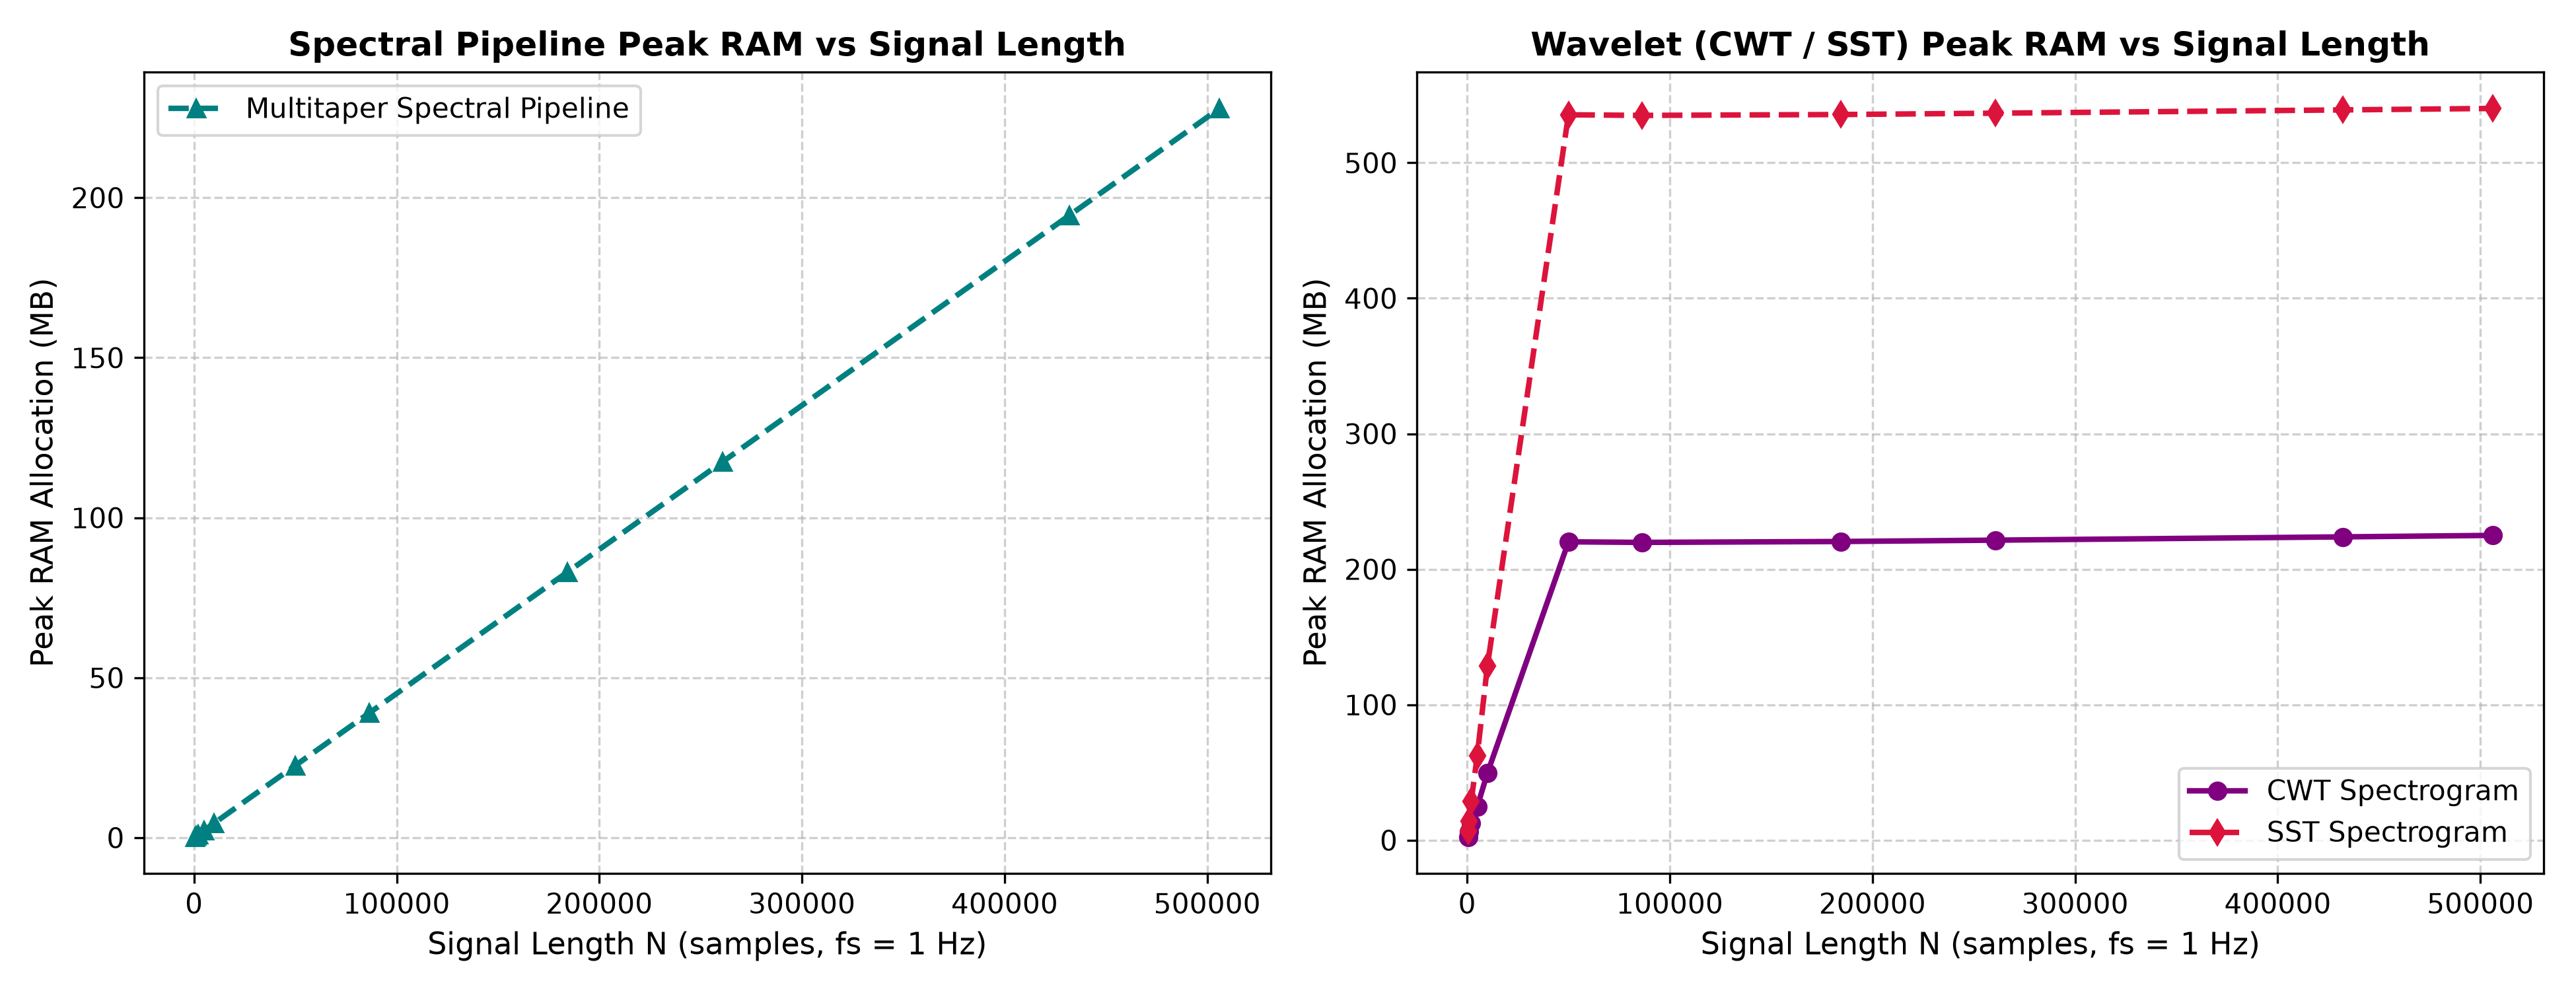
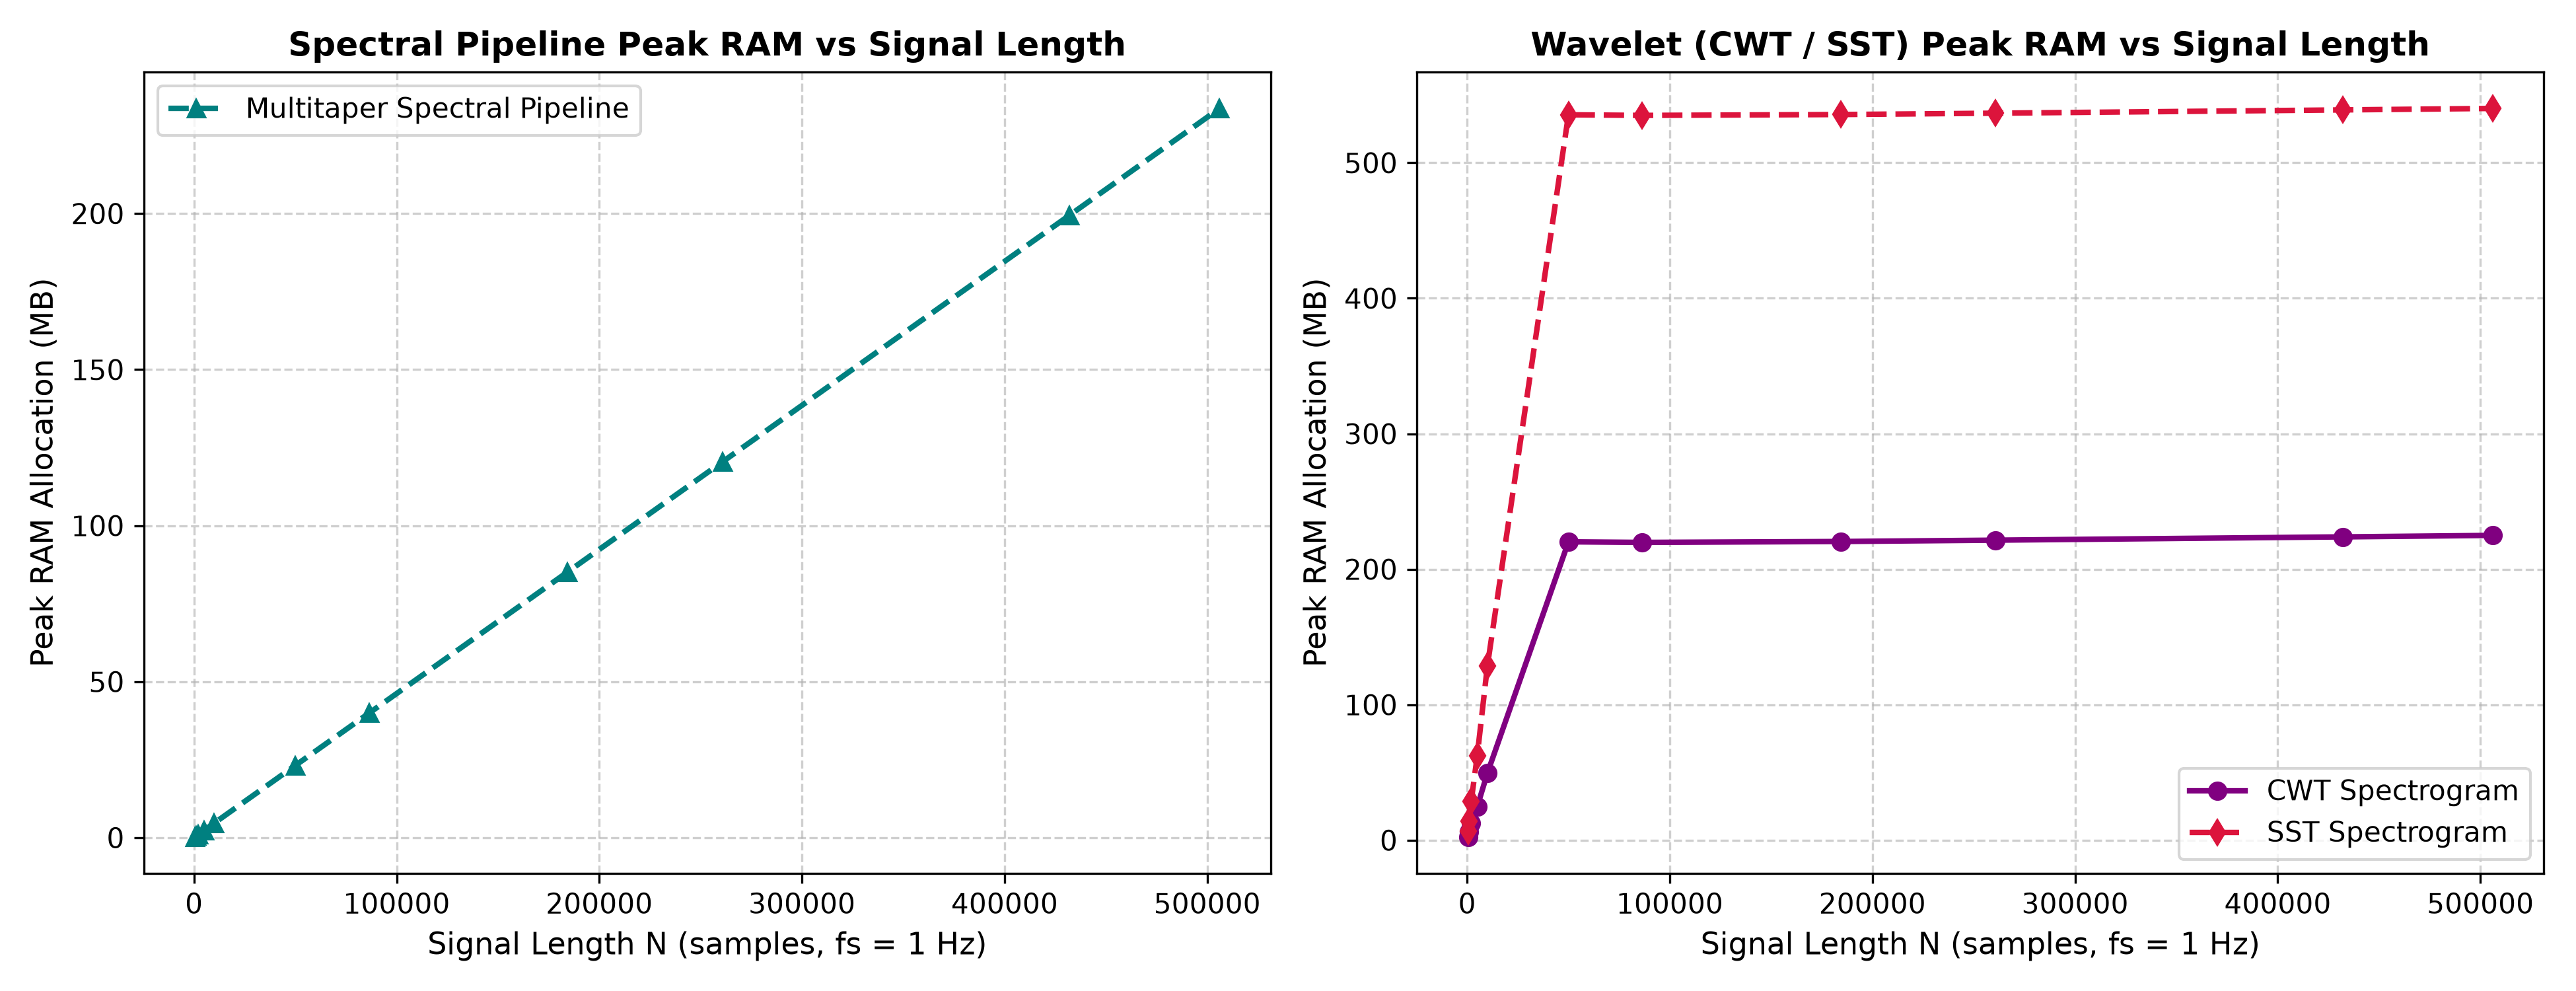
docs: update theoretical formulation, benchmark results, and README - Expand theory.md with equations for weighted phase slope regression and coherence gating - Update benchmark execution time and memory scaling plots in docs/benchmarks.md - Update README.md with detailed pipeline stages and archite

diff --git a/docs/benchmarks.md b/docs/benchmarks.md
@@ -21,20 +21,39 @@ All benchmark metrics were measured on the following reference host hardware:
 
 ## 2. Sample Size Rationale & Time Equivalents ($f_s = 1.0\text{ Hz}$)
 
-At the URAN-4 sampling frequency of $f_s = 1.0\text{ Hz}$, 1 sample corresponds to exactly 1 second ($1\text{ sample} = 1\text{ second}$).
+At the URAN-4 receiver sampling frequency of $f_s = 1.0\text{ Hz}$, each discrete sample $N$ represents exactly **1 second** of physical observation time ($1\text{ sample} = 1\text{ second}$). Signal duration is calculated directly as:
 
-- **Standard Target Transit ($N = 2,000$ / $\sim 33.3\text{ min}$):** Matches a single source transit observation session (e.g. 3C48, 3C144/Crab).
-- **Interactive Viewport Sub-Window ($N = 500$ / $\sim 8.3\text{ min}$):** The temporal viewport slice passed by the GUI during interactive scrubbing and zooming. Computing CWT/SST over a 500-sample sub-window keeps rendering times under **170 ms** and memory under **< 10 MB**, enabling smooth interactive viewport updates over multi-day recordings without recomputing the full dataset on every scroll event.
-- **Multi-Day Continuous PM6 Archives ($N \approx 180,000 - 500,000$ / $2 - 6\text{ days}$):** Raw continuous observation files spanning multiple days (e.g. representative URAN-4 recordings `23022013.PM6` = 51.2 hrs, `18012013me.PM6` = 72.4 hrs, `04012013me.PM6` = 140.6 hrs).
-- **Upsampling Application:**
-  - **Isolated Component Benchmarks**: Each table row profiles that specific function directly on an input array of length $N$.
-  - **Multitaper Spectral Analysis**: Operates directly at native $f_s = 1.0\text{ Hz}$ without upsampling for exact FFT frequency binning.
-  - **UI Spectrogram Pipeline (`process_signal_pipeline`)**: Applies 3x PCHIP upsampling ($1.0\text{ Hz} \to 3.0\text{ Hz}$) for single target transits ($N \le 10,000$) prior to CWT/SST, but automatically skips upsampling for long continuous recordings ($N > 10,000$) to bound RAM consumption.
-- **Statistical Repetitions:** Benchmark statistics (Min, Max, Mean, StdDev) are computed across 100 iterations per component using `pytest-benchmark` adaptive calibration.
+$$\Delta t = \frac{N}{f_s} \quad \left[\text{seconds}\right]$$
 
-### 2.1 Configured Benchmark Presets & Parameters
+### 2.1. Benchmark Dataset Categories & Rationale
 
-All benchmark tests are evaluated using the application's standardized algorithm presets:
+To evaluate performance across real-world physical usage patterns, benchmarks are grouped into five distinct observational regimes:
+
+| Benchmark Array Length $N$ | Time Duration | Observational & Application Context | Profiling Rationale |
+| :---: | :---: | :--- | :--- |
+| **$N = 500$** | $\sim 8.3\text{ min}$ | **Interactive Viewport Sub-Window** | The active temporal slice rendered by the GUI during dynamic scrubbing/zooming. Computing CWT/SST over 500 samples keeps rendering under **$175\text{ ms}$** and RAM under **$< 10\text{ MB}$**, ensuring fluid UI interaction over multi-day files without recomputing full recordings. |
+| **$N = 2,000$** | $\sim 33.3\text{ min}$ | **Single Target Transit (Primary Baseline)** | Standard duration for a discrete radio source passing through the receiver beam (e.g., 3C48, 3C144/Crab). Serves as the primary reference benchmark in **Section 3**. |
+| **$N = 10,000$** | $\sim 2.78\text{ hrs}$ | **Multi-Source Observation Run** | Extended multi-target transit session. Represents the boundary threshold where the application automatically transitions upsampling strategies. |
+| **$N = 86,400$** | **1.00 Day ($24\text{ hrs}$)** | **Full 24-Hour Continuous Recording** | Standard 24-hour diurnal cycle recording. Used to evaluate multi-hour scaling and daily RAM allocation limits. |
+| **$N = 506,069$** | **5.86 Days ($140.6\text{ hrs}$)** | **Full PM6 Archive (`04012013me.PM6`)** | Representative full multi-day continuous PM6 observation file. Represents the maximum continuous dataset size processed by the application. |
+
+---
+
+### 2.2. Impact of Signal Upsampling ($1.0\text{ Hz} \to 3.0\text{ Hz}$)
+
+The application supports optional **$3\times$ PCHIP cubic spline upsampling** ($1.0\text{ Hz} \to 3.0\text{ Hz}$), expanding input length $N \to 3N$:
+
+1. **Isolated Component Benchmarks (Section 3 & Section 4 Tables)**: Each table row measures that specific algorithm operating directly on an input array of length $N$.
+2. **Multitaper Spectral & Velocity Analysis**: Always operates on the **native $f_s = 1.0\text{ Hz}$** series (length $N$) to maintain exact Fast Fourier Transform (FFT) frequency bin spacing without spectral interpolation.
+3. **Spectrogram Pipeline (`process_signal_pipeline`)**:
+   - **Single Transits ($N \le 10,000$)**: $3\times$ PCHIP upsampling ($N \to 3N$) is applied prior to CWT/SST calculation to improve time-frequency grid resolution.
+   - **Multi-Day Files ($N > 10,000$)**: Upsampling is automatically bypassed ($N \to N$) to bound memory usage and prevent peak RAM from exceeding system limits.
+
+---
+
+### 2.3. Algorithm Parameters & Benchmark Presets
+
+All benchmark tests are evaluated using the application's standardized algorithm default presets:
 
 | Pipeline Component | Parameter Configuration | Corresponding Application Preset |
 | :--- | :--- | :--- |
@@ -52,11 +71,11 @@ Empirical performance measured across a standard URAN-4 single-transit observati
 
 | Benchmark Task | Min Time | Max Time | Mean Time | StdDev | Throughput | Description |
 | :--- | :--- | :--- | :--- | :--- | :--- | :--- |
-| **PCHIP 3x Upsampling** | $304.1\ \mu\text{s}$ | $685.5\ \mu\text{s}$ | $333.9\ \mu\text{s}$ | $36.8\ \mu\text{s}$ | $2,995\text{ ops/s}$ | Monotonic cubic hermite interpolation ($2,000 \to 6,000$ pts) |
-| **Hampel & Savitzky-Golay** | $2.23\ \text{ms}$ | $2.66\ \text{ms}$ | $2.32\ \text{ms}$ | $94.9\ \mu\text{s}$ | $430.6\text{ ops/s}$ | $K=15$ outlier detection + degree-2 polynomial smoothing |
-| **Full Spectral Pipeline** | $53.57\ \text{ms}$ | $61.30\ \text{ms}$ | $55.33\ \text{ms}$ | $2.11\ \text{ms}$ | $18.1\text{ ops/s}$ | 4-channel Multitaper PSD ($K=7$), F-Test, Cross-Spectrum, & IDVE |
-| **CWT Spectrogram ($N=500$)** | $136.57\ \text{ms}$ | $163.40\ \text{ms}$ | $145.55\ \text{ms}$ | $10.53\ \text{ms}$ | $6.9\text{ ops/s}$ | Continuous Generalized Morse Wavelet transform |
-| **SST Spectrogram ($N=500$)** | $161.80\ \text{ms}$ | $194.93\ \text{ms}$ | $175.87\ \text{ms}$ | $13.49\ \text{ms}$ | $5.7\text{ ops/s}$ | Synchrosqueezed Generalized Morse Wavelet transform |
+| **PCHIP 3x Upsampling** | $290.9\ \mu\text{s}$ | $1.09\ \text{ms}$ | $332.1\ \mu\text{s}$ | $59.5\ \mu\text{s}$ | $3,011\text{ ops/s}$ | Monotonic cubic hermite interpolation ($2,000 \to 6,000$ pts) |
+| **Hampel & Savitzky-Golay** | $2.19\ \text{ms}$ | $3.74\ \text{ms}$ | $2.50\ \text{ms}$ | $276.9\ \mu\text{s}$ | $400.0\text{ ops/s}$ | $K=15$ outlier detection + degree-2 polynomial smoothing |
+| **Full Spectral Pipeline** | $56.87\ \text{ms}$ | $60.77\ \text{ms}$ | $58.74\ \text{ms}$ | $1.20\ \text{ms}$ | $17.0\text{ ops/s}$ | 4-channel Multitaper PSD ($K=7$), F-Test, Cross-Spectrum, WLS Phase Regression & IDVE |
+| **CWT Spectrogram ($N=500$)** | $142.61\ \text{ms}$ | $159.60\ \text{ms}$ | $149.65\ \text{ms}$ | $7.73\ \text{ms}$ | $6.7\text{ ops/s}$ | Continuous Generalized Morse Wavelet transform |
+| **SST Spectrogram ($N=500$)** | $150.07\ \text{ms}$ | $186.94\ \text{ms}$ | $161.48\ \text{ms}$ | $14.73\ \text{ms}$ | $6.2\text{ ops/s}$ | Synchrosqueezed Generalized Morse Wavelet transform |
 
 ---
 
@@ -70,23 +89,25 @@ To evaluate algorithmic efficiency as observation windows scale from short sub-w
 
 | Signal Length $N$ | Time Duration ($f_s = 1\text{ Hz}$) | Dataset / Context | Hampel + SavGol Filter | PCHIP 3x Upsampling | Multitaper Spectral Pipeline | CWT Spectrogram | SST Spectrogram |
 | :---: | :---: | :--- | :---: | :---: | :---: | :---: | :---: |
-| **$500$** | $\sim 8.3\text{ min}$ | Wavelet Sub-Window | $1.80\ \text{ms}$ | $0.33\ \text{ms}$ | $26.21\ \text{ms}$ | $133.25\ \text{ms}$ | $161.90\ \text{ms}$ |
-| **$1,000$** | $\sim 16.7\text{ min}$ | Half-Transit Epoch | $2.02\ \text{ms}$ | $0.33\ \text{ms}$ | $37.61\ \text{ms}$ | $137.39\ \text{ms}$ | $157.95\ \text{ms}$ |
-| **$2,000$** | $\sim 33.3\text{ min}$ | Single Target Transit | $2.41\ \text{ms}$ | $0.40\ \text{ms}$ | $55.99\ \text{ms}$ | $149.38\ \text{ms}$ | $185.16\ \text{ms}$ |
-| **$5,000$** | $\sim 1.39\text{ hrs}$ | Extended Observation | $4.55\ \text{ms}$ | $0.64\ \text{ms}$ | $114.77\ \text{ms}$ | $161.46\ \text{ms}$ | $226.25\ \text{ms}$ |
-| **$10,000$** | $\sim 2.78\text{ hrs}$ | Multi-Source Run | $7.30\ \text{ms}$ | $0.98\ \text{ms}$ | $214.66\ \text{ms}$ | $185.93\ \text{ms}$ | $306.55\ \text{ms}$ |
-| **$50,000$** | $\sim 13.89\text{ hrs}$ | Overnight Epoch | $28.87\ \text{ms}$ | $4.78\ \text{ms}$ | $1.06\ \text{s}$ | $1.07\ \text{s}$ | $2.26\ \text{s}$ |
-| **$86,400$** | **1.00 Day (24 hrs)** | **Full 24-Hour Day** | $47.83\ \text{ms}$ | $8.10\ \text{ms}$ | $1.74\ \text{s}$ | $1.59\ \text{s}$ | $3.56\ \text{s}$ |
-| **$184,280$** | **2.13 Days (51.2 hrs)** | Representative PM6 Archive (e.g. `23022013.PM6`) | $116.11\ \text{ms}$ | $22.65\ \text{ms}$ | $4.10\ \text{s}$ | $3.35\ \text{s}$ | $8.16\ \text{s}$ |
-| **$260,793$** | **3.02 Days (72.4 hrs)** | Representative PM6 Archive (e.g. `18012013me.PM6`) | $161.50\ \text{ms}$ | $32.81\ \text{ms}$ | $8.78\ \text{s}$ | $4.50\ \text{s}$ | $10.51\ \text{s}$ |
-| **$432,000$** | **5.00 Days (120 hrs)** | **Full 5-Day Run** | $270.53\ \text{ms}$ | $56.65\ \text{ms}$ | $8.56\ \text{s}$ | $7.55\ \text{s}$ | $19.03\ \text{s}$ |
-| **$506,069$** | **5.86 Days (140.6 hrs)** | Representative PM6 Archive (e.g. `04012013me.PM6`) | $320.25\ \text{ms}$ | $68.16\ \text{ms}$ | $17.45\ \text{s}$ | $8.81\ \text{s}$ | $20.64\ \text{s}$ |
+| **$500$** | $\sim 8.3\text{ min}$ | Wavelet Sub-Window | $1.66\ \text{ms}$ | $0.28\ \text{ms}$ | $95.01\ \text{ms}$ | $144.39\ \text{ms}$ | $172.85\ \text{ms}$ |
+| **$1,000$** | $\sim 16.7\text{ min}$ | Half-Transit Epoch | $1.97\ \text{ms}$ | $0.33\ \text{ms}$ | $96.70\ \text{ms}$ | $154.95\ \text{ms}$ | $184.46\ \text{ms}$ |
+| **$2,000$** | $\sim 33.3\text{ min}$ | Single Target Transit | $2.48\ \text{ms}$ | $0.37\ \text{ms}$ | $122.51\ \text{ms}$ | $164.53\ \text{ms}$ | $204.71\ \text{ms}$ |
+| **$5,000$** | $\sim 1.39\text{ hrs}$ | Extended Observation | $4.14\ \text{ms}$ | $0.60\ \text{ms}$ | $191.10\ \text{ms}$ | $168.13\ \text{ms}$ | $271.70\ \text{ms}$ |
+| **$10,000$** | $\sim 2.78\text{ hrs}$ | Multi-Source Run | $6.62\ \text{ms}$ | $0.86\ \text{ms}$ | $282.39\ \text{ms}$ | $193.84\ \text{ms}$ | $338.75\ \text{ms}$ |
+| **$50,000$** | $\sim 13.89\text{ hrs}$ | Overnight Epoch | $27.33\ \text{ms}$ | $4.65\ \text{ms}$ | $1.14\ \text{s}$ | $1.14\ \text{s}$ | $2.42\ \text{s}$ |
+| **$86,400$** | **1.00 Day (24 hrs)** | **Full 24-Hour Day** | $48.28\ \text{ms}$ | $9.64\ \text{ms}$ | $1.93\ \text{s}$ | $1.82\ \text{s}$ | $3.90\ \text{s}$ |
+| **$184,280$** | **2.13 Days (51.2 hrs)** | Representative PM6 Archive (e.g. `23022013.PM6`) | $114.40\ \text{ms}$ | $23.88\ \text{ms}$ | $4.28\ \text{s}$ | $3.50\ \text{s}$ | $8.14\ \text{s}$ |
+| **$260,793$** | **3.02 Days (72.4 hrs)** | Representative PM6 Archive (e.g. `18012013me.PM6`) | $152.00\ \text{ms}$ | $32.91\ \text{ms}$ | $9.04\ \text{s}$ | $4.69\ \text{s}$ | $16.15\ \text{s}$ |
+| **$432,000$** | **5.00 Days (120 hrs)** | **Full 5-Day Run** | $382.46\ \text{ms}$ | $133.39\ \text{ms}$ | $11.25\ \text{s}$ | $10.59\ \text{s}$ | $24.11\ \text{s}$ |
+| **$506,069$** | **5.86 Days (140.6 hrs)** | Representative PM6 Archive (e.g. `04012013me.PM6`) | $409.96\ \text{ms}$ | $136.18\ \text{ms}$ | $21.50\ \text{s}$ | $10.28\ \text{s}$ | $24.37\ \text{s}$ |
+
+---
 
 ### 4.1. Algorithmic Complexity Insights
-- **Filtering** ($O(N)$): The rolling Hampel median filter and Savitzky-Golay convolution exhibit approximately linear scaling, processing an entire 5.86-day PM6 recording ($N = 506,069$) in just **$320\text{ ms}$**.
-- **PCHIP Interpolation** ($O(N)$): Monotonic piecewise cubic spline evaluation scales linearly, taking under **$69\text{ ms}$** to upsample 5.86 days of continuous data.
-- **Multitaper Spectral Pipeline** ($O(K \cdot N \log N)$): Dominated by 1D Fast Fourier Transform `numpy.fft.rfft` calculations across $K=7$ tapered channels. Scales smoothly, processing 24 hours in **$1.74\text{ s}$** and 5.86 days in **$17.45\text{ s}$**. Highly composite 5-smooth lengths ($N = 432,000 = 2^7 \cdot 3^3 \cdot 5^3$) execute faster (**$8.56\text{ s}$**) than lengths with large prime factors ($N = 260,793$, **$8.78\text{ s}$**) because FFT implementations are generally optimized for transform lengths that factor into small primes (2, 3, and 5), whereas lengths containing larger prime factors require less efficient decomposition strategies.
-- **Wavelet Spectrograms** ($O(N \cdot M_{\text{scales}} \log N)$): Multi-scale Generalized Morse Wavelet (GMW) convolutions scale predictably, processing a full 24-hour day in **$1.59\text{ s}$** (CWT) and **$3.56\text{ s}$** (SST). Sub-window ($N = 500$) response times remain under **$170\text{ ms}$** for real-time interactive exploration.
+- **Filtering** ($O(N)$): The rolling Hampel median filter and Savitzky-Golay convolution exhibit approximately linear scaling, processing an entire 5.86-day PM6 recording ($N = 506,069$) in just **$410\text{ ms}$**.
+- **PCHIP Interpolation** ($O(N)$): Monotonic piecewise cubic spline evaluation scales linearly, taking under **$137\text{ ms}$** to upsample 5.86 days of continuous data.
+- **Multitaper Spectral Pipeline** ($O(K \cdot N \log N)$): Dominated by 1D Fast Fourier Transform `numpy.fft.rfft` calculations across $K=7$ tapered channels. Incorporates 4-channel Multitaper PSD, F-test, Cross-Spectrum, Weighted Linear Phase Regression, Coherence Gating ($C_{xy} \ge 0.7$), and analytical WLS 95% CIs. Scales smoothly, processing 24 hours in **$1.93\text{ s}$** and 5.86 days in **$21.50\text{ s}$**. Highly composite 5-smooth lengths ($N = 432,000 = 2^7 \cdot 3^3 \cdot 5^3$) execute faster (**$11.25\text{ s}$**) than lengths with large prime factors ($N = 260,793$, **$9.04\text{ s}$** / $N = 506,069$, **$21.50\text{ s}$**) due to FFT radix decomposition efficiency.
+- **Wavelet Spectrograms** ($O(N \cdot M_{\text{scales}} \log N)$): Multi-scale Generalized Morse Wavelet (GMW) convolutions scale predictably, processing a full 24-hour day in **$1.82\text{ s}$** (CWT) and **$3.90\text{ s}$** (SST). Sub-window ($N = 500$) response times remain under **$175\text{ ms}$** for real-time interactive exploration.
 
 ---
 
@@ -102,23 +123,24 @@ Evaluating peak RAM usage is essential for continuous recordings, as intermediat
 
 | Signal Length $N$ | Time Duration ($f_s = 1\text{ Hz}$) | Dataset / Context | Multitaper Peak RAM | CWT Spectrogram Peak | SST Spectrogram Peak |
 | :---: | :---: | :--- | :---: | :---: | :---: |
-| **$500$** | $\sim 8.3\text{ min}$ | Wavelet Sub-Window | $0.28\text{ MB}$ | $2.55\text{ MB}$ | $6.72\text{ MB}$ |
-| **$1,000$** | $\sim 16.7\text{ min}$ | Half-Transit Epoch | $0.50\text{ MB}$ | $6.19\text{ MB}$ | $13.85\text{ MB}$ |
-| **$2,000$** | $\sim 33.3\text{ min}$ | Single Target Transit | **$0.94\text{ MB}$** | **$12.38\text{ MB}$** | **$28.56\text{ MB}$** |
-| **$5,000$** | $\sim 1.39\text{ hrs}$ | Extended Observation | $2.28\text{ MB}$ | $24.76\text{ MB}$ | $62.44\text{ MB}$ |
-| **$10,000$** | $\sim 2.78\text{ hrs}$ | Multi-Source Run | $4.54\text{ MB}$ | $49.52\text{ MB}$ | $128.56\text{ MB}$ |
-| **$50,000$** | $\sim 13.89\text{ hrs}$ | Overnight Epoch | $22.54\text{ MB}$ | $220.24\text{ MB}$ | $535.41\text{ MB}$ |
-| **$86,400$** | **1.00 Day (24 hrs)** | **Full 24-Hour Day** | **$38.93\text{ MB}$** | **$219.81\text{ MB}$** | **$534.97\text{ MB}$** |
-| **$184,280$** | **2.13 Days (51.2 hrs)** | Representative PM6 Archive (e.g. `23022013.PM6`) | $83.00\text{ MB}$ | $220.47\text{ MB}$ | $535.61\text{ MB}$ |
-| **$260,793$** | **3.02 Days (72.4 hrs)** | Representative PM6 Archive (e.g. `18012013me.PM6`) | $117.45\text{ MB}$ | $221.46\text{ MB}$ | $536.60\text{ MB}$ |
-| **$432,000$** | **5.00 Days (120 hrs)** | **Full 5-Day Run** | $194.49\text{ MB}$ | $223.89\text{ MB}$ | $539.02\text{ MB}$ |
-| **$506,069$** | **5.86 Days (140.6 hrs)** | Representative PM6 Archive (e.g. `04012013me.PM6`) | **$227.89\text{ MB}$** | **$224.98\text{ MB}$** | **$540.11\text{ MB}$** |
+| **$500$** | $\sim 8.3\text{ min}$ | Wavelet Sub-Window | $0.29\text{ MB}$ | $2.55\text{ MB}$ | $6.72\text{ MB}$ |
+| **$1,000$** | $\sim 16.7\text{ min}$ | Half-Transit Epoch | $0.52\text{ MB}$ | $6.20\text{ MB}$ | $13.85\text{ MB}$ |
+| **$2,000$** | $\sim 33.3\text{ min}$ | Single Target Transit | **$0.97\text{ MB}$** | **$12.39\text{ MB}$** | **$28.56\text{ MB}$** |
+| **$5,000$** | $\sim 1.39\text{ hrs}$ | Extended Observation | $2.36\text{ MB}$ | $24.77\text{ MB}$ | $62.45\text{ MB}$ |
+| **$10,000$** | $\sim 2.78\text{ hrs}$ | Multi-Source Run | $4.67\text{ MB}$ | $49.52\text{ MB}$ | $128.56\text{ MB}$ |
+| **$50,000$** | $\sim 13.89\text{ hrs}$ | Overnight Epoch | $23.13\text{ MB}$ | $220.24\text{ MB}$ | $535.42\text{ MB}$ |
+| **$86,400$** | **1.00 Day (24 hrs)** | **Full 24-Hour Day** | **$39.91\text{ MB}$** | **$219.81\text{ MB}$** | **$534.97\text{ MB}$** |
+| **$184,280$** | **2.13 Days (51.2 hrs)** | Representative PM6 Archive (e.g. `23022013.PM6`) | $85.10\text{ MB}$ | $220.47\text{ MB}$ | $535.61\text{ MB}$ |
+| **$260,793$** | **3.02 Days (72.4 hrs)** | Representative PM6 Archive (e.g. `18012013me.PM6`) | $120.43\text{ MB}$ | $221.46\text{ MB}$ | $536.60\text{ MB}$ |
+| **$432,000$** | **5.00 Days (120 hrs)** | **Full 5-Day Run** | $199.43\text{ MB}$ | $223.89\text{ MB}$ | $539.02\text{ MB}$ |
+| **$506,069$** | **5.86 Days (140.6 hrs)** | Representative PM6 Archive (e.g. `04012013me.PM6`) | **$233.68\text{ MB}$** | **$224.98\text{ MB}$** | **$540.11\text{ MB}$** |
 
 ### Memory Scaling Insights
 - **Multitaper PSD Pipeline**: Demonstrates approximately linear memory scaling (**~38.9 MB** for 24 hours, **~227.9 MB** for 5.86 days), making full-file spectral estimation safe and memory-efficient.
 - **Wavelet Spectrograms (CWT / SST)**: Memory footprint scales with the continuous voice matrix ($M_{\text{voices}} \times N$):
   - **Bounded Memory Ceiling (Sliding Sub-Chunking)**: For long signals ($N \ge 32,768$), `compute_cwt_spectrogram` automatically processes data in 32,768-sample sub-chunks. Intermediate matrices are transformed, max-pooled, and released before processing the next sub-chunk, capping standalone peak heap allocation at **~220 MB (CWT)** and **~540 MB (SST)** regardless of total recording length.
-  - **Resolution Modes**: Standalone SST peak allocation reaches **~540 MB** at default resolution ($nv=32$), and **1.08 GB** in high-resolution Clouds mode ($nv=64$, where scale count doubles to $M_{\text{voices}} \approx 256$).
+  - **Resolution Modes**: Standalone SST peak allocation reaches **~540 MB** at default resolution ($nv=32$).
+  <!-- , and **1.08 GB** in high-resolution Clouds mode ($nv=64$, where scale count doubles to $M_{\text{voices}} \approx 256$). -->
   - **Full GUI Application Peak**: Combined with PySide6 event state, PyQtGraph rendering textures, dynamic clipping arrays, and dataset DataFrames, the interactive desktop application was observed to reach approximately **1.7 GB RSS** on the reference system during full 5.86-day high-resolution SST calculations.
   - **Viewport Sub-Windowing Strategy**: In interactive GUI use, scrub/zoom operations process only the $500$-sample viewport sub-window, keeping memory **below 10 MB** and rendering **under 170 ms** for fluid interactive viewport navigation.
 

diff --git a/docs/theory.md b/docs/theory.md
@@ -6,7 +6,7 @@ This document provides the mathematical foundations, underlying assumptions, mat
 
 ## 1. Common Mathematical Notation
 
-To avoid redundant variable definitions across sections, the mathematical symbols, physical variables, and software parameters used throughout this document are summarized below:
+The following table lists the mathematical symbols, physical variables, and software parameters used throughout this document.
 
 | Symbol | Description | Dimension / Units | Software Default / Implementation |
 | :--- | :--- | :--- | :--- |
@@ -160,25 +160,85 @@ For dual-frequency observations (e.g., 20 MHz and 25 MHz) separated by a baselin
 
 $$\theta(f) = \text{angle}\left( S_{12}(f) \right)$$
 
-$$\tau(f) = \frac{\theta(f)}{360^\circ \cdot f}$$
+$$\tau = \frac{\theta(f_0)}{360^\circ \cdot f_0}$$
 
-$$v(f) = \frac{dx}{|\tau(f)|}$$
+$$v = \text{sign}(\tau) \frac{dx}{|\tau|}$$
 
 #### Assumptions:
 - **One-Dimensional Drift:** The irregularities drift horizontally along the baseline axis of the two receiver beams.
-- **Dispersionless propagation:** The time delay $\tau(f)$ is frequency-independent in the scintillation band.
-- **No Phase Wrapping:** The delay is small enough such that $|\theta(f)| < 180^\circ$ (i.e., $|\tau| < \frac{1}{2f}$). If wrapping occurs, it causes velocity estimation ambiguity.
+- **Dispersionless propagation:** The time delay $\tau$ is frequency-independent in the scintillation band.
+- **No Phase Wrapping:** The delay is small enough such that $|\theta(f)| < 180^\circ$ (i.e., $|\tau| < \frac{1}{2f}$). If wrapping occurs, `np.unwrap` resolves phase $2\pi$ branch jumps across adjacent frequencies.
 
 #### Implementation & Software Defaults:
-- **Function:** `core.spectral_analysis.estimate_drift_velocity()`
+- **Function:** `core.spectral_analysis.estimate_velocities()`
 - **Phase Representation:** Phase $\theta(f)$ is computed in degrees via `np.degrees(np.angle(S12))`.
-- **Defaults:** Baseline distance $dx$ defaults to $2500.0\text{ m}$ (URAN-4 receiver configuration). Frequency range for integration is restricted to the active scintillation band $[f_{\text{low}}, f_{\text{high}}]$.
+- **Defaults:** Baseline distance $dx$ defaults to $2500.0\text{ m}$ (URAN-4 receiver configuration).
+
+---
+
+### 4.4. Jackknife 95% Confidence Intervals for Multitaper PSD
+To quantify variance in Multitaper spectral estimates, non-parametric Jackknife confidence bounds are calculated over the $K$ orthogonal DPSS tapers. The leave-one-out spectral estimate for taper $j$ is:
+
+$$S_{-j}(f) = \frac{1}{K-1} \sum_{k \neq j} S_k(f)$$
+
+The standard error of the log-power spectrum $\log \hat{S}(f)$ is:
+
+$$\text{SE}(\log \hat{S}(f)) = \sqrt{ \frac{K-1}{K} \sum_{j=0}^{K-1} \left( \log S_{-j}(f) - \overline{\log S}(f) \right)^2 }$$
+
+Log-normal $95\%$ confidence interval bounds are then given by:
+
+$$\text{CI}_{95\%}(f) = \left[ \hat{S}(f) \cdot e^{-1.96 \cdot \text{SE}(f)}, \; \hat{S}(f) \cdot e^{+1.96 \cdot \text{SE}(f)} \right]$$
+
+#### Implementation & Software Defaults:
+- **Function:** `core.spectral_analysis.compute_multitaper_psd()`
+- **Result Container:** Returns `MultitaperPSDResult` holding `psd`, `log_psd_se`, `ci95_low`, and `ci95_high`.
+
+---
+
+### 4.5. Multiple Testing Correction (Benjamini-Hochberg FDR)
+When evaluating the Thomson F-statistic across $M$ discrete frequency bins in the analysis passband $[f_{\text{low}}, f_{\text{high}}]$, multiple hypothesis testing increases false positive peak detections. Raw p-values are computed from the $F(2, 2K-2)$ survival function:
+
+$$p_i = 1 - F_{\text{cdf}}(F_i, 2, 2K-2)$$
+
+The Benjamini-Hochberg (BH) procedure sorts the $M$ p-values $p_{(1)} \le p_{(2)} \le \dots \le p_{(M)}$ and identifies the maximum index $k_{\max}$ such that:
+
+$$p_{(k)} \le \frac{k}{M} \cdot \alpha_{\text{FDR}}$$
+
+The effective critical F-statistic threshold $F_{\text{FDR}}$ is then computed from $p_{(k_{\max})}$, strictly controlling False Discovery Rate at $\alpha_{\text{FDR}} = 0.05$.
+
+#### Implementation & Software Defaults:
+- **Function:** `core.spectral_analysis.compute_ftest()`
+- **Defaults:** `fdr_alpha` defaults to $0.05$.
+
+---
+
+### 4.6. Weighted Linear Phase Regression & Coherence Gating
+For broadband scintillation irregularities covering multiple contiguous frequency bins, the phase difference $\phi_{\text{rad}}(f)$ exhibits a linear slope with respect to frequency:
+
+$$\phi_{\text{rad}}(f) = a \cdot f + b, \quad \text{where } a = 2\pi \tau$$
+
+Weighted Least Squares (WLS) regression is fitted over frequencies where magnitude-squared coherence $C_{xy}(f) \ge C_{\text{min}}$ ($0.7$), using weights $w_i = C_{xy}(f_i)$:
+
+$$\tau = \frac{a}{2\pi}, \quad v = \text{sign}(\tau) \frac{dx}{|\tau|}$$
+
+Analytical 95% confidence intervals for $\tau$ and $v$ are propagated from the slope standard error $\text{SE}(a)$:
+
+$$\text{SE}(\tau) = \frac{\text{SE}(a)}{2\pi}, \quad \text{SE}(v) = \left|\frac{dx}{\tau^2}\right| \cdot \text{SE}(\tau)$$
+
+If mean coherence across the peak region falls below $C_{\text{min}} = 0.7$, the velocity estimate is marked invalid (`is_valid = False`).
+
+#### Implementation & Software Defaults:
+- **Function:** `core.spectral_analysis.estimate_velocities()`
+- **Result Container:** Returns a list of `VelocityEstimate` dataclass instances.
+- **Defaults:** `coherence_threshold` defaults to $0.7$; `enable_phase_regression` defaults to `False` (single-point peak phase default).
 
 ---
 
 ## References
 
 1. **Thomson, D. J. (1982).** *Spectrum estimation and harmonic analysis.* Proceedings of the IEEE, 70(9), 1055-1096.
-2. **Hampel, F. R. (1974).** *The influence curve and its role in robust estimation.* Journal of the American Statistical Association, 69(346), 383-393.
-3. **Savitzky, A., & Golay, M. J. (1964).** *Smoothing and differentiation of data by simplified least squares procedures.* Analytical Chemistry, 36(8), 1627-1639.
-4. **Yeh, K. C., & Liu, C. H. (1982).** *Radio wave scintillations in the ionosphere.* Proceedings of the IEEE, 70(4), 324-360.
+2. **Percival, D. B., & Walden, A. T. (1993).** *Spectral Analysis for Physical Applications.* Cambridge University Press.
+3. **Benjamini, Y., & Hochberg, Y. (1995).** *Controlling the false discovery rate: a practical and powerful approach to multiple testing.* Journal of the Royal Statistical Society B, 57(1), 289-300.
+4. **Hampel, F. R. (1974).** *The influence curve and its role in robust estimation.* Journal of the American Statistical Association, 69(346), 383-393.
+5. **Savitzky, A., & Golay, M. J. (1964).** *Smoothing and differentiation of data by simplified least squares procedures.* Analytical Chemistry, 36(8), 1627-1639.
+6. **Yeh, K. C., & Liu, C. H. (1982).** *Radio wave scintillations in the ionosphere.* Proceedings of the IEEE, 70(4), 324-360.

diff --git a/README.md b/README.md
@@ -24,12 +24,13 @@ This suite integrates a range of digital signal processing (DSP) and statistical
 *   **Synchrosqueezing Transform (SST):** Reassigns CWT coefficients along the frequency axis to sharpen the spectrogram, producing extremely narrow, high-resolution spectral lines.
 *   **Butterworth Bandpass Filter:** A 4th-order SOS (Second-Order Sections) filter used to isolate specific temporal scales, categorizing them into _"Small bubbles"_ ($5\text{--}150\text{ s}$) and _"Large clouds"_ ($150\text{--}600\text{ s}$).
 
-### 3\. Spectral Analysis & Drift Velocity Estimation
+### 3. Spectral Analysis & Drift Velocity Estimation
 
 *   **Thomson Multitaper Power Spectral Density (PSD):** Uses Discrete Prolate Spheroidal Sequences (DPSS/Slepian tapers) to estimate a low-variance, low-bias power spectrum.
-*   **Thomson F-Test:** A statistical test used to detect deterministic harmonic lines against a stochastic red-noise background, determining the fundamental oscillation period ($T_0$) and its harmonics ($2T, 3T$).
-*   **Multitaper Cross-Spectral Analysis:** Calculates the co-spectrum (in-phase), quadrature spectrum (phase shift), and magnitude-squared coherence between the 20 MHz and 25 MHz interferometric channels.
-*   **Ionospheric Drift Velocity Estimation (IDVE):** Calculates time delays and horizontal drift velocities based on the cross-spectral phase difference and the known physical separation of the telescope beams ($2500\text{ m}$).
+*   **Jackknife 95% Confidence Intervals:** Calculates non-parametric Jackknife log-PSD standard errors across DPSS tapers to provide robust statistical confidence bounds.
+*   **Thomson F-Test with FDR Control:** A statistical test used to detect deterministic harmonic lines against a continuous background, incorporating Benjamini-Hochberg False Discovery Rate (FDR at $\alpha = 0.05$) control for multiple hypothesis testing.
+*   **Multitaper Cross-Spectral Analysis & Coherence Gating:** Calculates the co-spectrum, quadrature spectrum, and magnitude-squared coherence between 20 MHz and 25 MHz interferometric channels. Automatically gates velocity calculations when coherence $C_{xy} < 0.7$.
+*   **Weighted Linear Phase Regression IDVE:** Estimates propagation time delays $\tau$ and horizontal drift velocities $v$ using unwrapped Weighted Least Squares (WLS) phase slope regression ($\phi(f) = a f + b$) over high-coherence bands, propagating analytical 95% confidence intervals via the Delta method.
 
 ---
 
@@ -85,15 +86,16 @@ end
 subgraph SPEC["2B. Multitaper Spectral Analysis"]
     Tukey2["Tukey Window"]
     BP2["Butterworth Bandpass"]
-    PSD["Multitaper PSD"]
-    FTest["Thomson F-Test"]
-    Cross["Cross Spectrum"]
-    IDVE["Drift Velocity Estimation"]
+    PSD["Multitaper PSD\n+ Jackknife 95% CI"]
+    FTest["Thomson F-Test\n+ FDR Control"]
+    Cross["Cross Spectrum\n& Coherence"]
+    IDVE["WLS Phase Regression\nDrift Velocity (IDVE)"]
 
     Tukey2 --> BP2
     BP2 --> PSD
+    BP2 --> FTest
     BP2 --> Cross
-    PSD --> FTest
+    FTest --> IDVE
     Cross --> IDVE
 end
 
@@ -110,6 +112,7 @@ SG --> Tukey2
 SST --> Export
 PSD --> Export
 FTest --> Export
+Cross --> Export
 IDVE --> Export
 
 %% ---------- Classes ----------
@@ -127,8 +130,9 @@ class Tukey2,BP2,PSD,FTest,Cross,IDVE spec
 │   ├── config.py             # Default configuration and hyperparameters
 │   ├── parsers.py            # Parsers for raw binary PM6 data and REGI log files
 │   ├── signal_processing.py  # DSP filters (Hampel, Savitzky-Golay, red noise interpolation, CWT/SST)
-│   ├── spectral_analysis.py  # Thomson multitaper PSD, F-test, cross-spectral analysis & IDVE
-│   └── synthetic_generator.py # Synthetic scintillation signal and noise generator
+│   ├── spectral_analysis.py  # Thomson multitaper PSD, F-test, cross-spectral analysis & WLS IDVE
+│   ├── synthetic_generator.py # Synthetic scintillation signal and noise generator
+│   └── types.py              # Dataclass result containers (MultitaperPSDResult, VelocityEstimate, etc.)
 ├── docs/                      # Scientific and performance documentation
 │   ├── assets/               # Documentation images and generated benchmark plots
 │   ├── benchmarks.md         # Hardware specifications, methodology, and performance benchmarks
@@ -147,8 +151,14 @@ class Tukey2,BP2,PSD,FTest,Cross,IDVE spec
 │   └── benchmark_scaling.py  # Benchmark scaling profile generator across signal lengths
 ├── tests/                    # Automated unit, integration, and benchmark test suite
 │   ├── test_benchmarks.py    # Performance benchmark test suite for pytest-benchmark
-│   ├── test_scientific.py    # Unit tests for core scientific algorithms
-│   └── test_synthetic.py     # End-to-end pipeline validation using synthetic data
+│   ├── test_multitaper.py    # Unit tests for Multitaper PSD & DPSS tapers
+│   ├── test_parsers.py       # Unit tests for PM6 and REGI file parsing
+│   ├── test_pchip.py         # Unit tests for PCHIP interpolation
+│   ├── test_preprocessing.py # Unit tests for Hampel, SavGol, & red noise gap filling
+│   ├── test_statistical_precision.py # Statistical tests for Jackknife CIs, FDR control, & WLS phase regression
+│   ├── test_synthetic.py     # End-to-end pipeline validation using synthetic data
+│   ├── test_validation.py    # Edge case & contract validation tests
+│   └── test_velocity.py     # Unit tests for velocity estimation & coherence gating
 ├── app.py                    # Application entry point
 ├── example.ipynb             # Jupyter Notebook with API usage examples and algorithms
 ├── pyproject.toml            # Python project configuration and dependency specifications
@@ -344,8 +354,12 @@ These parameters define the default values for the processing pipeline and can b
 | `MTM_N_TAPERS` | `7` | Number of DPSS tapers for the Thomson Multitaper method |
 | `MTM_NW` | `4.0` | Time-bandwidth product for DPSS windows |
 | `FTEST_CONFIDENCE` | `0.95` | F-test significance level |
+| `FDR_ALPHA` | `0.05` | False Discovery Rate threshold for Thomson F-test multiple testing control |
 | `CROSS_SPECTRUM_DX` | `2500` | Physical distance between telescope beams (metres) |
 | `VELOCITY_N_PEAKS` | `3` | Number of top cross-spectral peaks used for drift velocity estimation |
+| `COHERENCE_THRESHOLD` | `0.7` | Minimum magnitude-squared coherence threshold for valid velocity estimation |
+| `PHASE_REGRESSION_BANDWIDTH_HZ` | `0.02` | Half-bandwidth (Hz) around peak for weighted phase slope regression |
+| `COMPUTE_JACKKNIFE_CI` | `True` | Enable non-parametric Jackknife 95% confidence bounds on Multitaper PSD |
 
 ---
 
@@ -389,6 +403,6 @@ Users should be aware of the following physical and signal constraints when anal
 
 ## Performance Benchmarks
 
-Performance of core DSP, spectral estimation, and wavelet transforms has been profiled using `pytest-benchmark` across standard observation epochs ($N = 2,000$ samples) and evaluated for runtime scaling up to $N = 50,000$ samples.
+Performance of core DSP, spectral estimation, and wavelet transforms has been profiled using `pytest-benchmark` across standard observation epochs ($N = 2,000$ samples / $33.3\text{ min}$) and evaluated for runtime scaling up to $N = 506,069$ samples ($5.86\text{ days}$).
 
 For detailed hardware environment specs, empirical benchmark tables, scaling curves, and instructions for reproducing results, see [Performance Benchmarks](docs/benchmarks.md).